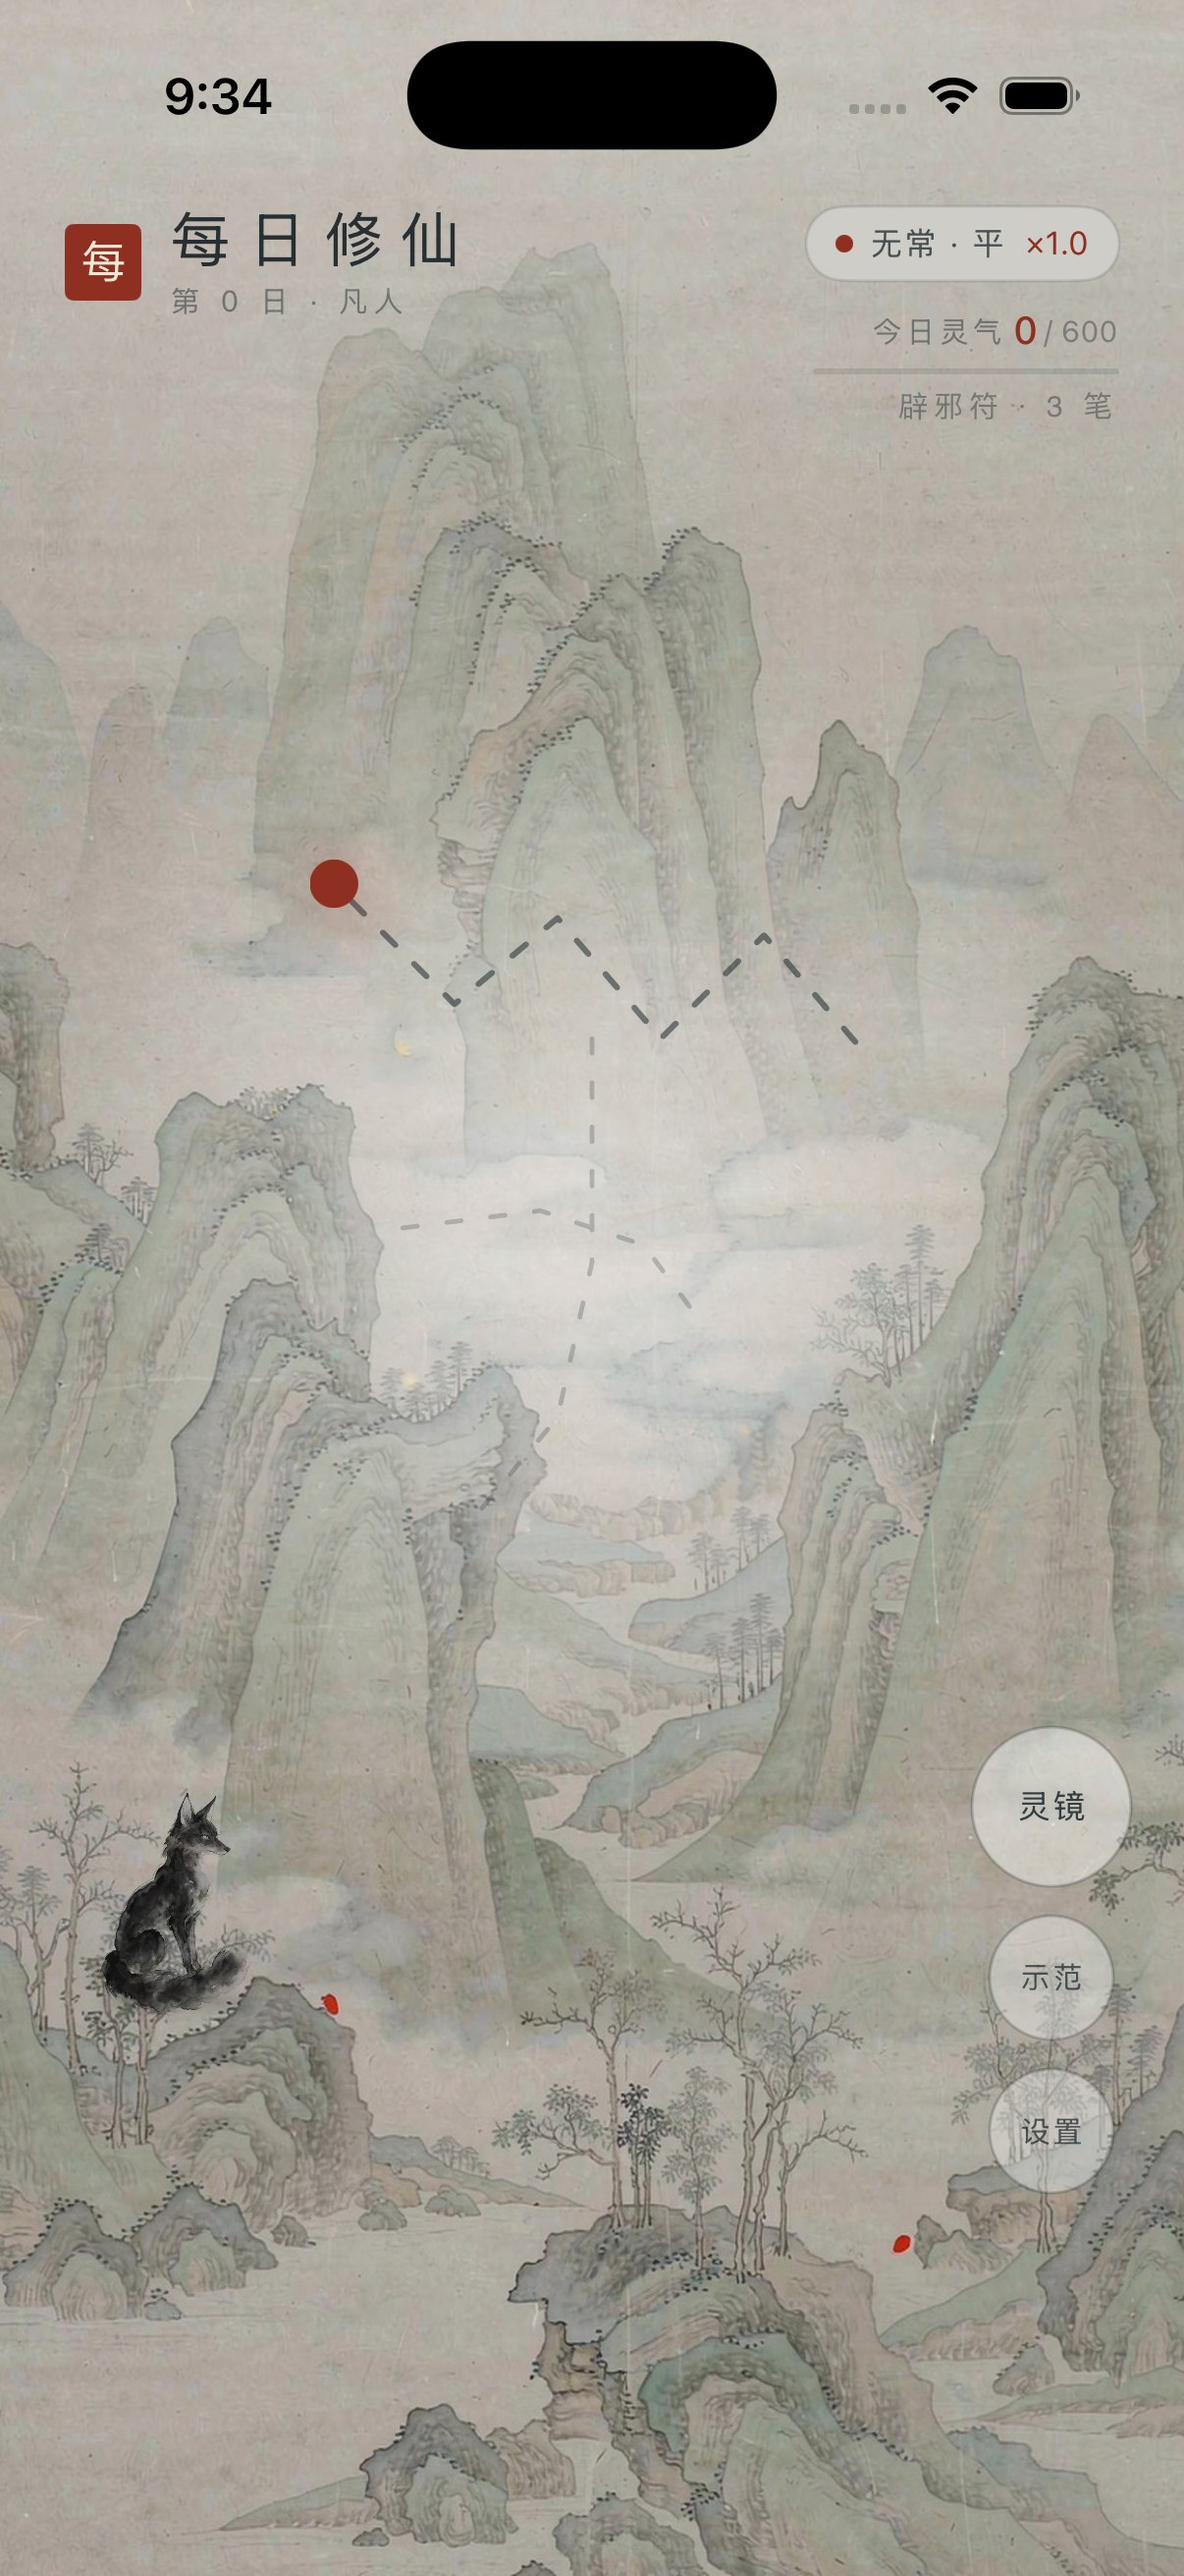
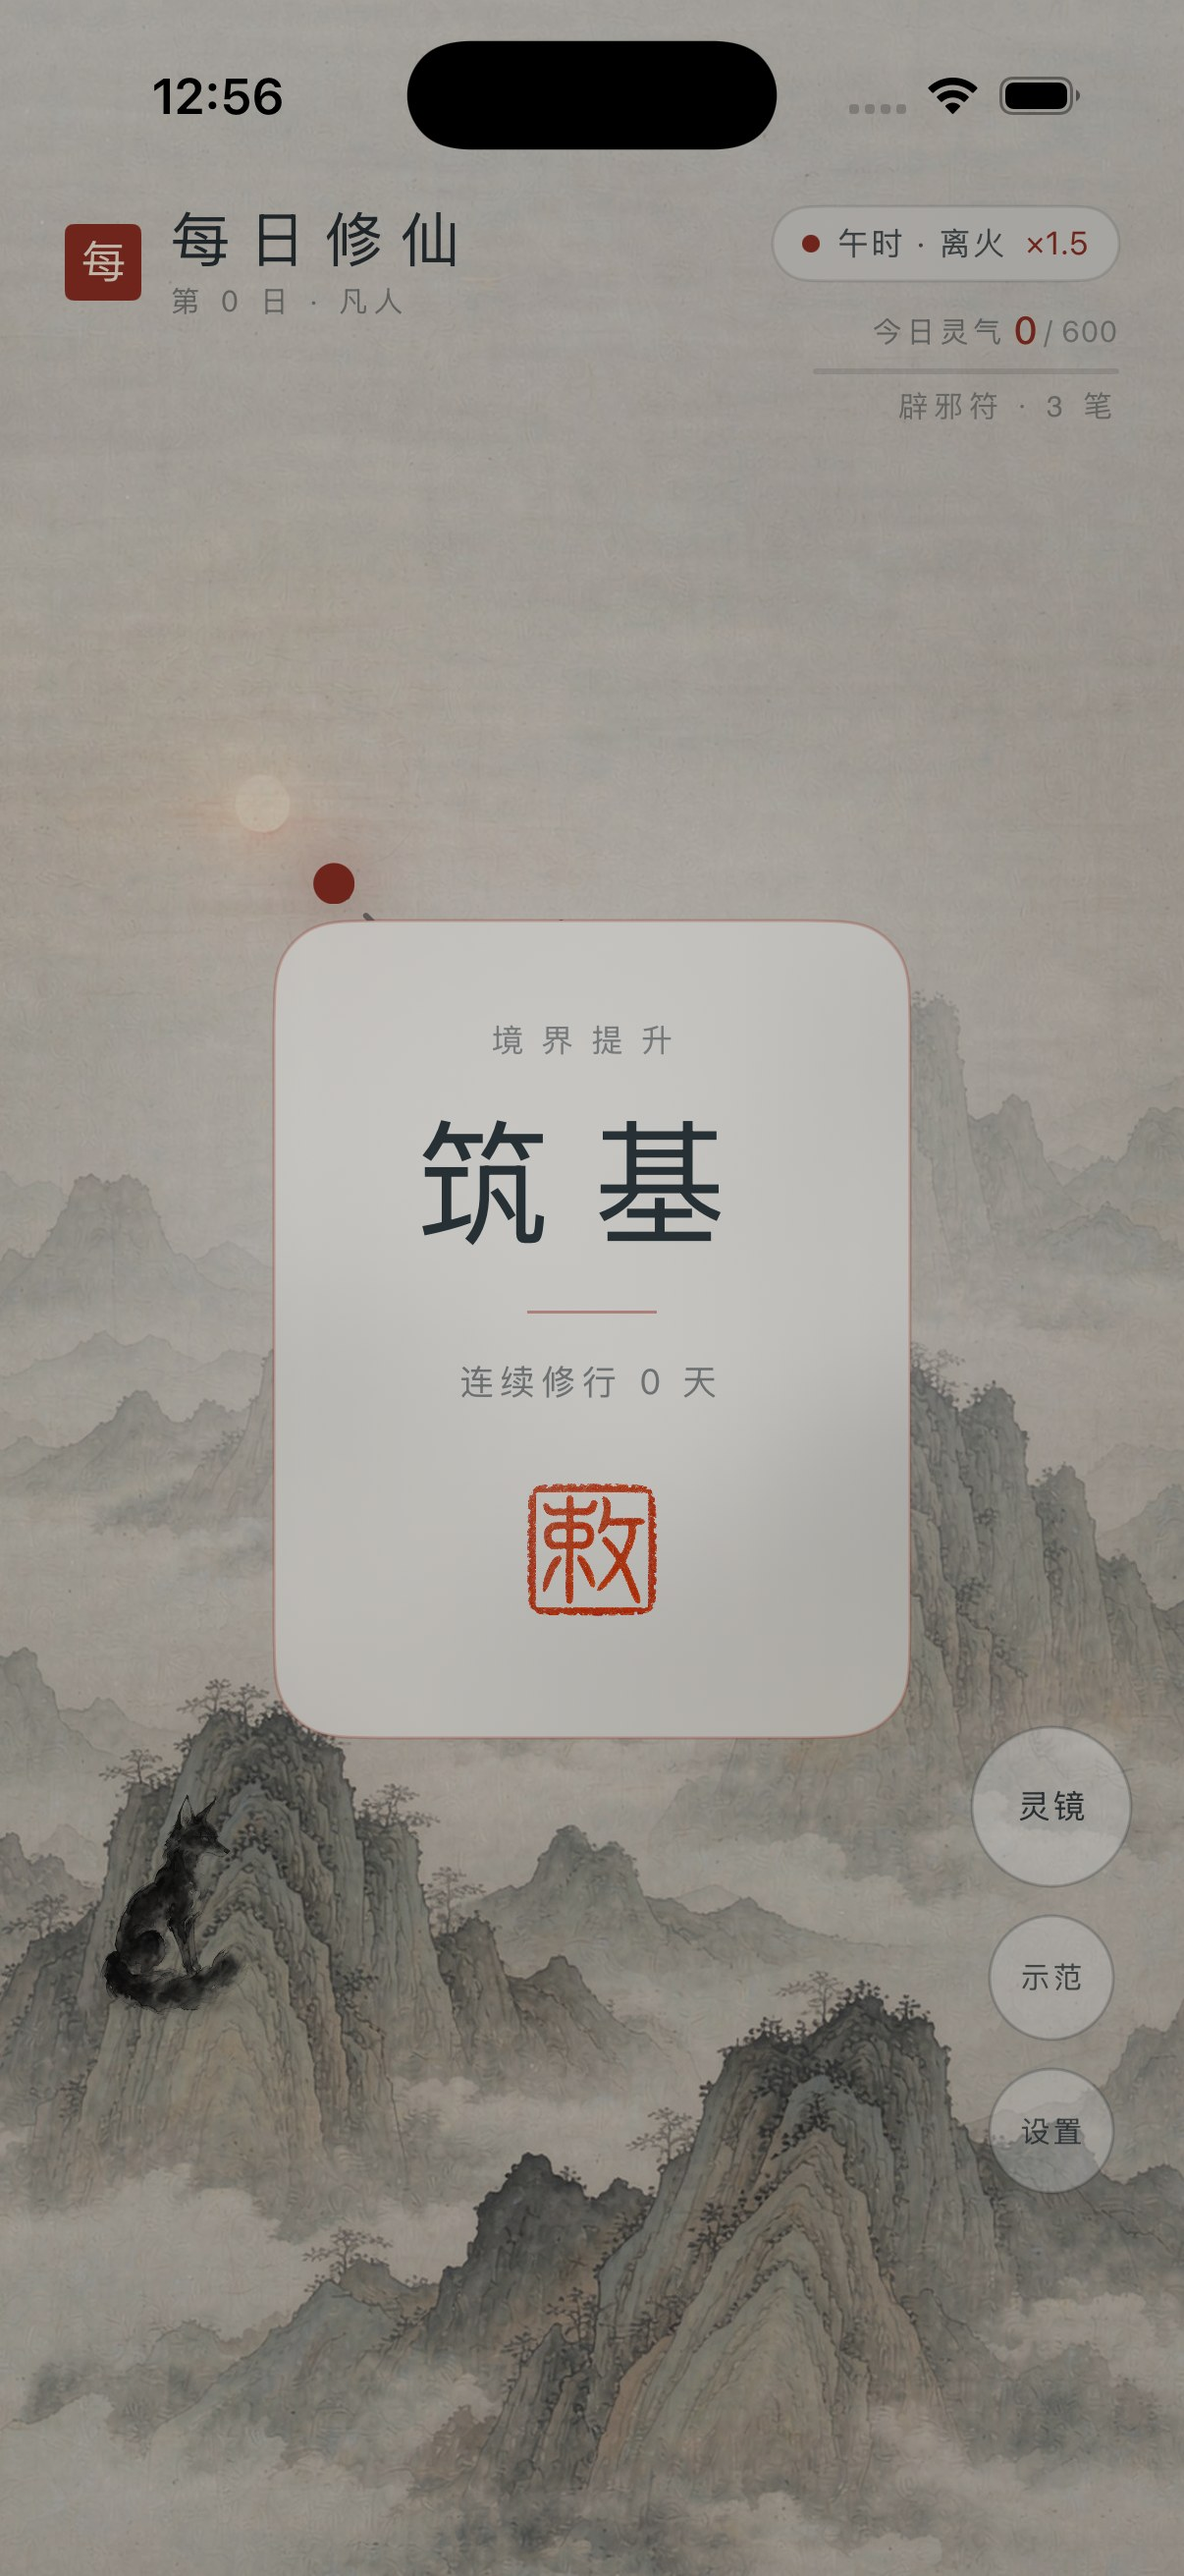
docs: 境界提升与干净背景截图

diff --git a/tools/crop.py b/tools/crop.py
@@ -1,7 +1,9 @@
 
 from PIL import Image
-for name in ["bg_chang@3x.jpg", "bg_you@3x.jpg"]:
-    im = Image.open(r"F:\MyApp\eternal\DailyCultivation\assets\art\01-backgrounds\\" + name).convert("RGB")
-    im.thumbnail((380, 820))
-    im.save(r"F:\MyApp\eternal\DailyCultivation\prototype\screens\_" + name.split("@")[0] + ".jpg", quality=88)
-print("ok")
+import os
+d = r"F:\MyApp\eternal\shots-up2"
+out = r"F:\MyApp\eternal\DailyCultivation\prototype\screens"
+for name, target in [("shot-upgrade.png","ios-upgrade.jpg"), ("shot.png","ios-idle.jpg")]:
+    im = Image.open(os.path.join(d, name)).convert("RGB")
+    im.save(os.path.join(out, target), "JPEG", quality=88, optimize=True)
+    print(target, im.size)
